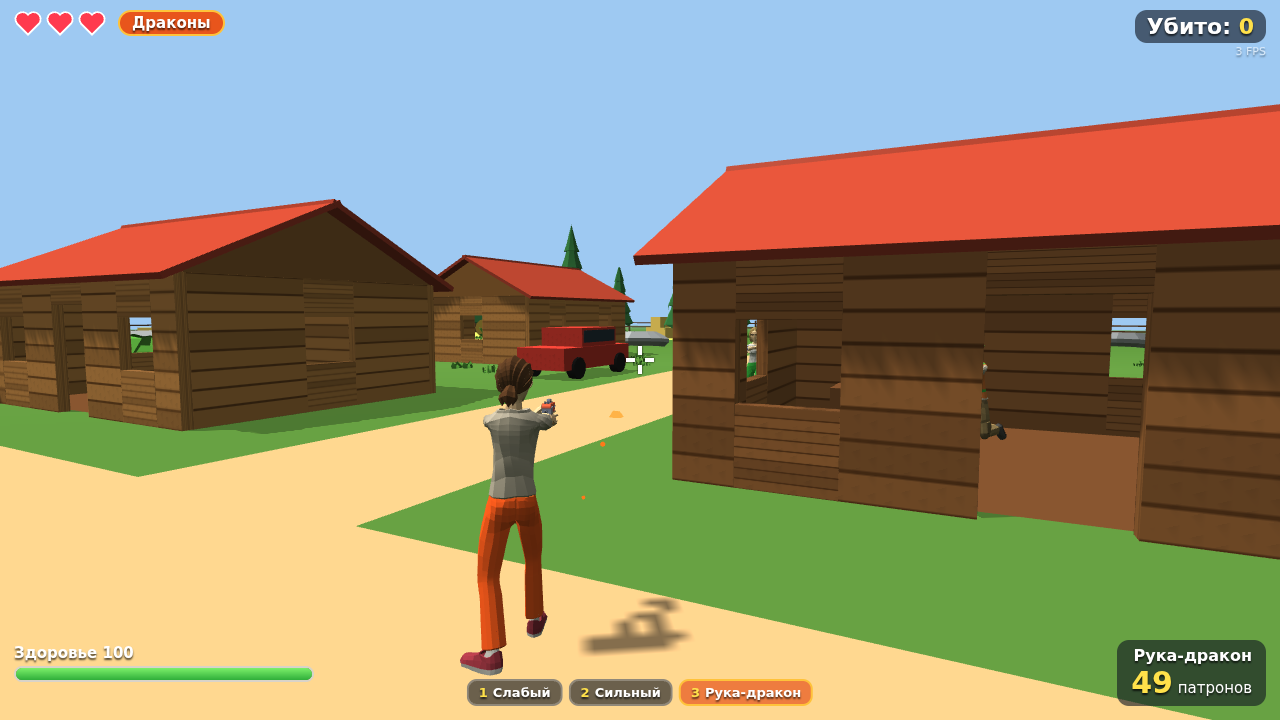
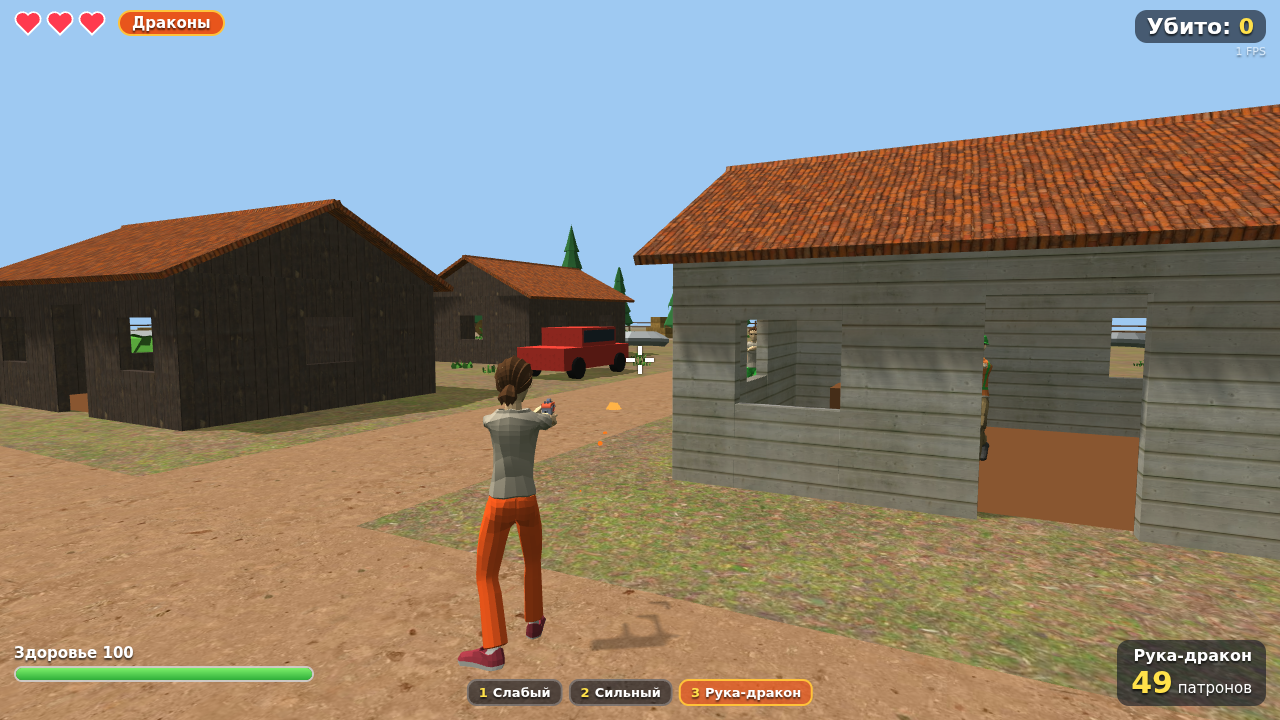
Photo textures: Poly Haven CC0 grass, dirt roads, dry field, planks, clay roofs, straw
512 px diffuse maps (~560 KB total) with world-projected UVs so walls,
roofs and ground tile at a constant scale. Procedural plank/grass
textures removed; the map RNG is advanced by the same amount so the
layout stays identical. Single bush model.

diff --git a/client/src/world.ts b/client/src/world.ts
@@ -11,6 +11,7 @@ import {
   Texture,
   TransformNode,
   Vector3,
+  VertexBuffer,
   VertexData,
 } from "@babylonjs/core";
 import { CLANS, type ClanId } from "@clan-battle/shared";
@@ -51,6 +52,56 @@ function tag(m: Mesh | InstancedMesh, kind: HitKind, collide: boolean): void {
   m.checkCollisions = collide;
 }
 
+/**
+ * UV по мировой проекции (как «кубическая» развёртка): текстура ложится с одинаковым масштабом
+ * на любые куски стен, полов и крыш, без растяжения по граням.
+ * @param tile сколько метров на один повтор текстуры
+ */
+function projectUV(mesh: Mesh, tile: number): void {
+  const pos = mesh.getVerticesData(VertexBuffer.PositionKind);
+  const nrm = mesh.getVerticesData(VertexBuffer.NormalKind);
+  if (!pos || !nrm) return;
+  const uv = new Float32Array((pos.length / 3) * 2);
+  for (let i = 0, j = 0; i < pos.length; i += 3, j += 2) {
+    const ax = Math.abs(nrm[i]);
+    const ay = Math.abs(nrm[i + 1]);
+    const az = Math.abs(nrm[i + 2]);
+    let u: number;
+    let v: number;
+    if (ay >= ax && ay >= az) {
+      u = pos[i];
+      v = pos[i + 2];
+    } else if (ax >= az) {
+      u = pos[i + 2];
+      v = pos[i + 1];
+    } else {
+      u = pos[i];
+      v = pos[i + 1];
+    }
+    uv[j] = u / tile;
+    uv[j + 1] = v / tile;
+  }
+  mesh.setVerticesData(VertexBuffer.UVKind, uv, false);
+}
+
+const photoMats = new Map<string, StandardMaterial>();
+
+/** Материал с фото-текстурой Poly Haven (CC0, 512 px), общий на всю сцену */
+function photoMat(scene: Scene, file: string, tint = "#ffffff"): StandardMaterial {
+  const key = `${file}|${tint}`;
+  let m = photoMats.get(key);
+  if (!m || m.getScene() !== scene) {
+    m = new StandardMaterial(`photo_${key}`, scene);
+    const t = new Texture(`./textures/${file}.jpg`, scene);
+    t.anisotropicFilteringLevel = 4;
+    m.diffuseTexture = t;
+    m.diffuseColor = Color3.FromHexString(tint);
+    m.specularColor.set(0.04, 0.04, 0.04);
+    photoMats.set(key, m);
+  }
+  return m;
+}
+
 export class World {
   readonly obstacles: Rect[] = [];
   readonly covers: CoverSpot[] = [];
@@ -69,11 +120,13 @@ export class World {
   private mConcrete: StandardMaterial;
 
   constructor(private scene: Scene, detail = 1) {
-    this.mWood = this.woodMat("wood", "#a8743f");
-    this.mWood2 = this.woodMat("wood2", "#8d5b33");
+    // Старые процедурные доски брали 16 чисел из генератора карты — сохраняем раскладку
+    for (let i = 0; i < 16; i++) this.rng();
+    this.mWood = photoMat(scene, "weathered_planks");
+    this.mWood2 = photoMat(scene, "brown_planks_05");
     this.mWoodDark = flatMat(scene, "#5c3b22");
-    this.mRoof = flatMat(scene, "#9c3b2b");
-    this.mRoof2 = flatMat(scene, "#4f5d6b");
+    this.mRoof = photoMat(scene, "clay_roof_tiles_02");
+    this.mRoof2 = photoMat(scene, "grey_roof_tiles");
     this.mConcrete = flatMat(scene, "#8b8f94");
 
     this.buildGround();
@@ -98,29 +151,6 @@ export class World {
 
   // ---------- Материалы ----------
 
-  private woodMat(name: string, hex: string): StandardMaterial {
-    const tex = new DynamicTexture(`${name}_tex`, { width: 128, height: 128 }, this.scene, true);
-    const ctx = tex.getContext() as CanvasRenderingContext2D;
-    const base = Color3.FromHexString(hex);
-    ctx.fillStyle = hex;
-    ctx.fillRect(0, 0, 128, 128);
-    // Доски
-    for (let i = 0; i < 8; i++) {
-      const k = 0.85 + this.rng() * 0.25;
-      ctx.fillStyle = base.scale(k).toHexString();
-      ctx.fillRect(0, i * 16 + 1, 128, 14);
-      ctx.fillStyle = "rgba(40,20,5,0.55)";
-      ctx.fillRect(0, i * 16 + 15, 128, 2);
-    }
-    tex.update();
-    tex.wrapU = Texture.WRAP_ADDRESSMODE;
-    tex.wrapV = Texture.WRAP_ADDRESSMODE;
-    const m = new StandardMaterial(name, this.scene);
-    m.diffuseTexture = tex;
-    m.specularColor = new Color3(0.05, 0.05, 0.05);
-    return m;
-  }
-
   private register(m: Mesh | InstancedMesh, kind: HitKind | null, collide: boolean, shadow = false): void {
     if (kind) tag(m, kind, collide);
     else {
@@ -136,30 +166,17 @@ export class World {
   private buildGround(): void {
     const size = MAP_HALF * 2 + 60;
     const ground = MeshBuilder.CreateGround("ground", { width: size, height: size, subdivisions: 1 }, this.scene);
-    const tex = new DynamicTexture("grass_tex", { width: 256, height: 256 }, this.scene, true);
-    const ctx = tex.getContext() as CanvasRenderingContext2D;
-    ctx.fillStyle = "#5f9a3c";
-    ctx.fillRect(0, 0, 256, 256);
-    const shades = ["#56903a", "#6aa645", "#4f8636", "#74ad4c", "#5a9440"];
-    for (let i = 0; i < 1400; i++) {
-      ctx.fillStyle = shades[i % shades.length];
-      const x = this.rng() * 256;
-      const y = this.rng() * 256;
-      ctx.fillRect(x, y, 2 + this.rng() * 5, 2 + this.rng() * 5);
-    }
-    tex.update();
-    tex.uScale = size / 8;
-    tex.vScale = size / 8;
-    const m = new StandardMaterial("grass", this.scene);
-    m.diffuseTexture = tex;
-    m.specularColor = Color3.Black();
-    ground.material = m;
+    // Раньше тут рисовалась процедурная текстура травы на этом же генераторе;
+    // прокручиваем его столько же раз, чтобы раскладка карты не съехала
+    for (let i = 0; i < 1400 * 4; i++) this.rng();
+    projectUV(ground, 6);
+    ground.material = photoMat(this.scene, "leafy_grass", "#d8e8c8");
     ground.receiveShadows = true;
     this.register(ground, "world", false);
   }
 
   private buildRoads(): void {
-    const mat = flatMat(this.scene, "#b39467");
+    const mat = photoMat(this.scene, "dirt_floor");
     const roads: Rect[] = [
       { x0: -46, z0: 0, x1: 46, z1: 4 }, // главная улица деревни
       { x0: 1, z0: -34, x1: 5, z1: 34 }, // поперечная
@@ -171,6 +188,7 @@ export class World {
       const d = r.z1 - r.z0;
       const p = MeshBuilder.CreateGround(`road${i}`, { width: w, height: d }, this.scene);
       p.position.set((r.x0 + r.x1) / 2, 0.02 + i * 0.003, (r.z0 + r.z1) / 2);
+      projectUV(p, 4);
       p.material = mat;
       p.receiveShadows = true;
       this.register(p, null, false);
@@ -393,6 +411,7 @@ export class World {
     wall(d - 2 * T, openings[2] ?? [], -w / 2 + T / 2, 0, -Math.PI / 2);
     wall(d - 2 * T, openings[3] ?? [], w / 2 - T / 2, 0, Math.PI / 2);
     const merged = Mesh.MergeMeshes(pieces, true, true)!;
+    projectUV(merged, 2);
     merged.name = name;
     merged.material = mat;
     merged.receiveShadows = true;
@@ -417,6 +436,7 @@ export class World {
     VertexData.ComputeNormals(positions, indices, normals);
     vd.normals = normals;
     vd.applyToMesh(m);
+    projectUV(m, 2);
     return m;
   }
 
@@ -456,6 +476,7 @@ export class World {
       const zc = (d / 2 + 0.5) / 2 - 0.12;
       const yTop = h + ph * (1 - zc / (d / 2));
       slab.position.set(0, yTop + 0.07 / Math.cos(slope), s * zc);
+      projectUV(slab, 2);
       slab.material = roofMat;
       this.register(slab, "world", false, true);
     }
@@ -592,7 +613,8 @@ export class World {
   private placeBush(x: number, z: number): void {
     const s = 0.8 + this.rng() * 0.5;
     const rot = this.rng() * 3;
-    const id: NatureId = this.rngLook() < 0.6 ? "plant_bushLarge" : "plant_bushDetailed";
+    this.rngLook();
+    const id: NatureId = "plant_bushLarge";
     const inst = getModels().nature(id).createInstance(`bush_${x}_${z}`);
     inst.position.set(x, 0, z);
     // Куст ~1.1 м в высоту и ~2.5 м в ширину: за ним можно присесть и спрятаться
@@ -699,13 +721,14 @@ export class World {
   // ---------- Поле с сеном ----------
 
   private hayMat(): StandardMaterial {
-    return flatMat(this.scene, "#d9b44a");
+    return photoMat(this.scene, "reed_roof_04", "#f0d890");
   }
 
   private placeHayRound(x: number, z: number, rot: number): void {
     const c = MeshBuilder.CreateCylinder(`hayR_${x}_${z}`, { diameter: 1.6, height: 1.3, tessellation: 12 }, this.scene);
     c.rotation.set(0, rot, Math.PI / 2);
     c.position.set(x, 0.8, z);
+    projectUV(c, 1.2);
     c.material = this.hayMat();
     c.receiveShadows = true;
     this.register(c, "world", true, true);
@@ -717,12 +740,14 @@ export class World {
     const b = MeshBuilder.CreateBox(`hayS_${x}_${z}`, { width: 2.4, height: 0.9, depth: 1.1 }, this.scene);
     b.rotation.y = rot;
     b.position.set(x, 0.45, z);
-    b.material = flatMat(this.scene, "#e3c35e");
+    projectUV(b, 1.2);
+    b.material = this.hayMat();
     this.register(b, "world", true, true);
     if (this.rng() < 0.5) {
       const top = MeshBuilder.CreateBox(`hayS2_${x}_${z}`, { width: 1.2, height: 0.9, depth: 1.1 }, this.scene);
       top.rotation.y = rot;
       top.position.set(x, 1.35, z);
+      projectUV(top, 1.2);
       top.material = b.material;
       this.register(top, "world", true, true);
     }
@@ -734,7 +759,8 @@ export class World {
     // Поле посветлее
     const field = MeshBuilder.CreateGround("hayField", { width: 44, height: 40 }, this.scene);
     field.position.set(38, 0.012, -38);
-    field.material = flatMat(this.scene, "#a7b04f");
+    projectUV(field, 6);
+    field.material = photoMat(this.scene, "withered_grass");
     field.receiveShadows = true;
     this.register(field, null, false);
     for (let i = 0; i < 20; i++) {

diff --git a/client/src/models.ts b/client/src/models.ts
@@ -25,7 +25,6 @@ export const NATURE = [
   "tree_pineDefaultA",
   "tree_pineRoundC",
   "plant_bushLarge",
-  "plant_bushDetailed",
   "stone_largeA",
   "stone_largeC",
   "stone_tallB",
